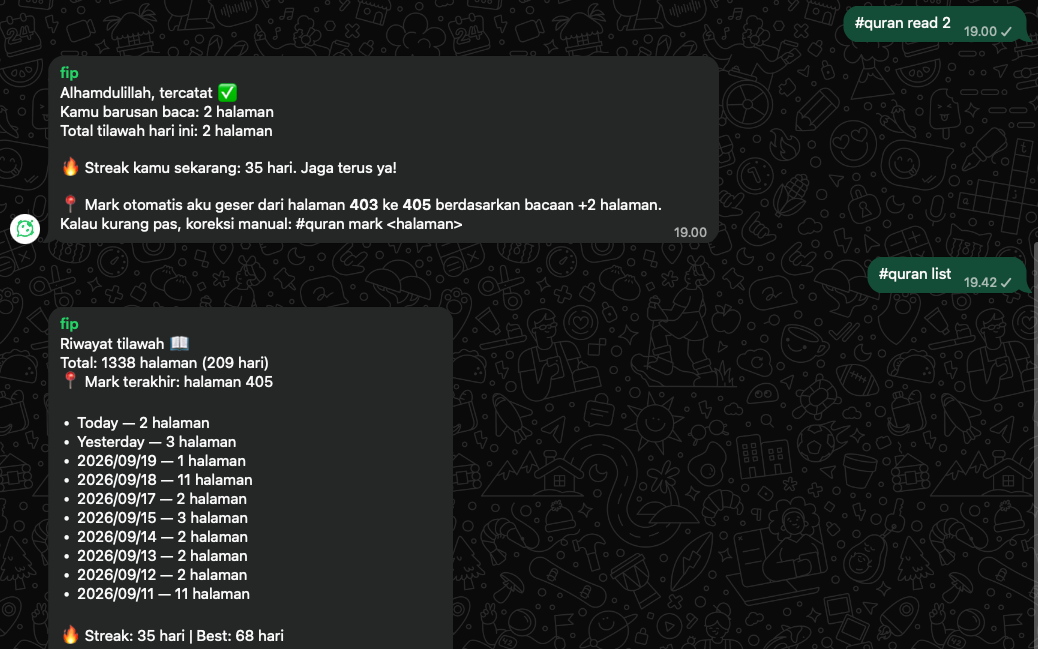
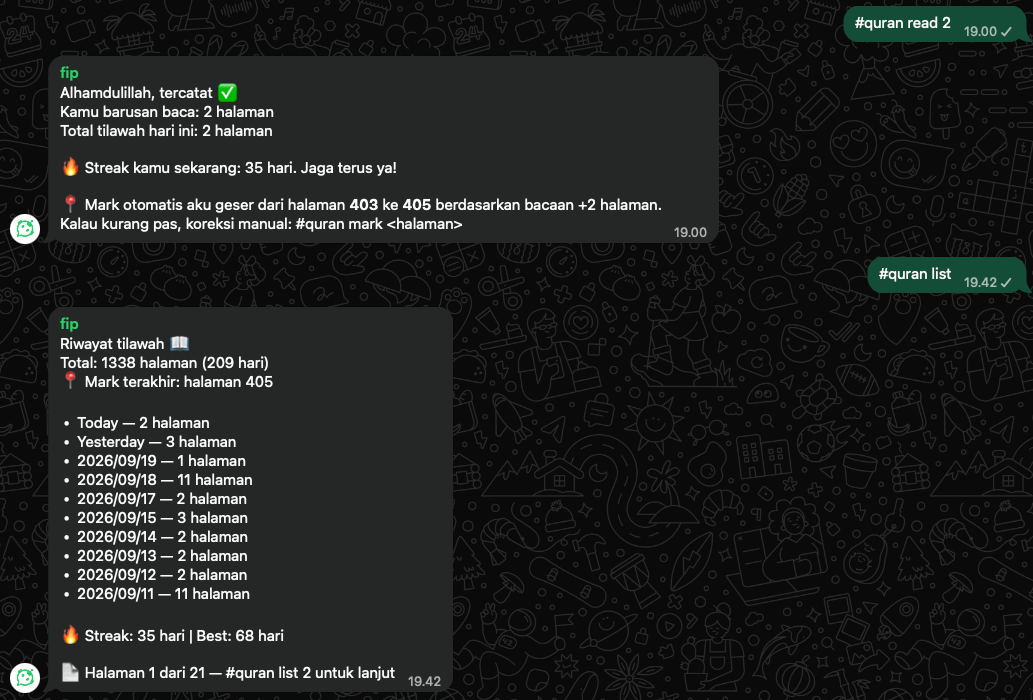
feat: recapture the hospital at 2x from my own build, and re-cut the bot
The hospital's live site now runs a different design from the one I built, so
the picture comes from my build of it running locally, at 1600 by 1000 with a
pixel ratio of 2. That is the width the original was taken at and the one
where that layout is centred.

Its hero image is pinned at its 1x size for the capture. The image is a
next/image with an automatic size and a srcset whose 2x file is the same 800
pixels, so on any 2x screen it shows at half width. That is a bug in the
hospital project, not part of the design the picture is meant to show.

I have no sharper capture of the bot, so it stays 1x and is cut again from the
raw file instead. The old cut stopped in the middle of the second reply. The
new one holds the whole conversation, both replies complete, and leaves out
the message bar and the scrollbar. Nothing is upscaled: its plate stops at two
thirds of its width, as large as its pixels allow.

diff --git a/docs/design/handover.md b/docs/design/handover.md
@@ -136,9 +136,28 @@ naming:       {project-slug}.png → src/content/projects/_images/
 > keeps its language in `localStorage` under `nabitu-lang`, so set it to `en`
 > and reload before capturing, or the picture will not match its alt text.
 >
-> The hospital site and the WhatsApp bot are still 1×. The hospital's live site
-> now shows a different design from the one in its capture, so it was not
-> recaptured until it is settled which design belongs on the case study.
+> **The hospital is captured from my local build, not the live site.** The
+> live site now runs a different design from the one I built, so the
+> capture comes from the project running at `localhost:3000`. It was taken at
+> 1600 × 1000, the width where that layout is centred, giving 3200 × 2000.
+>
+> Two things have to be done before capturing:
+>
+> - Hide the Next.js dev badge (`nextjs-portal`).
+> - Pin the hero image at its 1× size:
+>   `img.dokter { width: 800px; max-width: 100%; height: auto }`.
+>
+> The second is needed because the image is a `next/image` with
+> `width: auto; height: auto` and a `1x, 2x` srcset whose 2× file is the same
+> 800 pixels. On any 2× screen the browser divides that by two, and the hero
+> image shows at 400px instead of filling its 696px column. That is a bug in
+> the hospital project, not something to reproduce in its portfolio picture.
+>
+> **The WhatsApp bot stays 1×.** It is an app window and there is no sharper
+> capture. It is cut from the raw capture to the whole conversation, 1033 × 700:
+> both replies complete, without the message bar and the scrollbar. Nothing is
+> upscaled. Its plate stops at 689px, two thirds of its width, which is as large
+> as its pixels allow.
 
 For anything NDA-covered, do not blur or redact — use the **C5b no-image
 variant**. A blurred screenshot looks like a mistake; a type block looks
